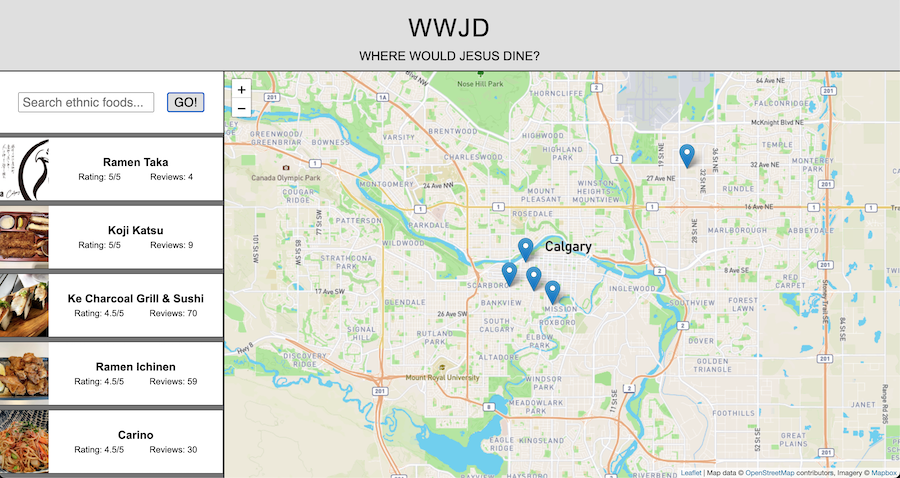
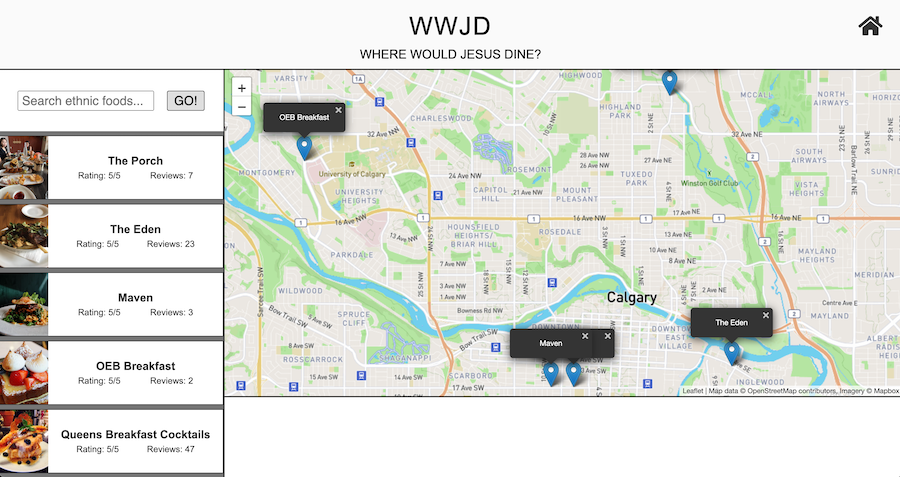
Update readme

diff --git a/README.md b/README.md
@@ -9,4 +9,5 @@ npm start
 To run proxy server for API requests to mitigate cors and start Angular front-end
 
 
-![App Image](https://github.com/lowkeycode/wwjd/blob/master/wwjd.png)
+![Home Page](https://github.com/lowkeycode/wwjd/blob/master/wwjd.png)
+![Restaurant Page](https://github.com/lowkeycode/wwjd/blob/master/wwjd2.png)
